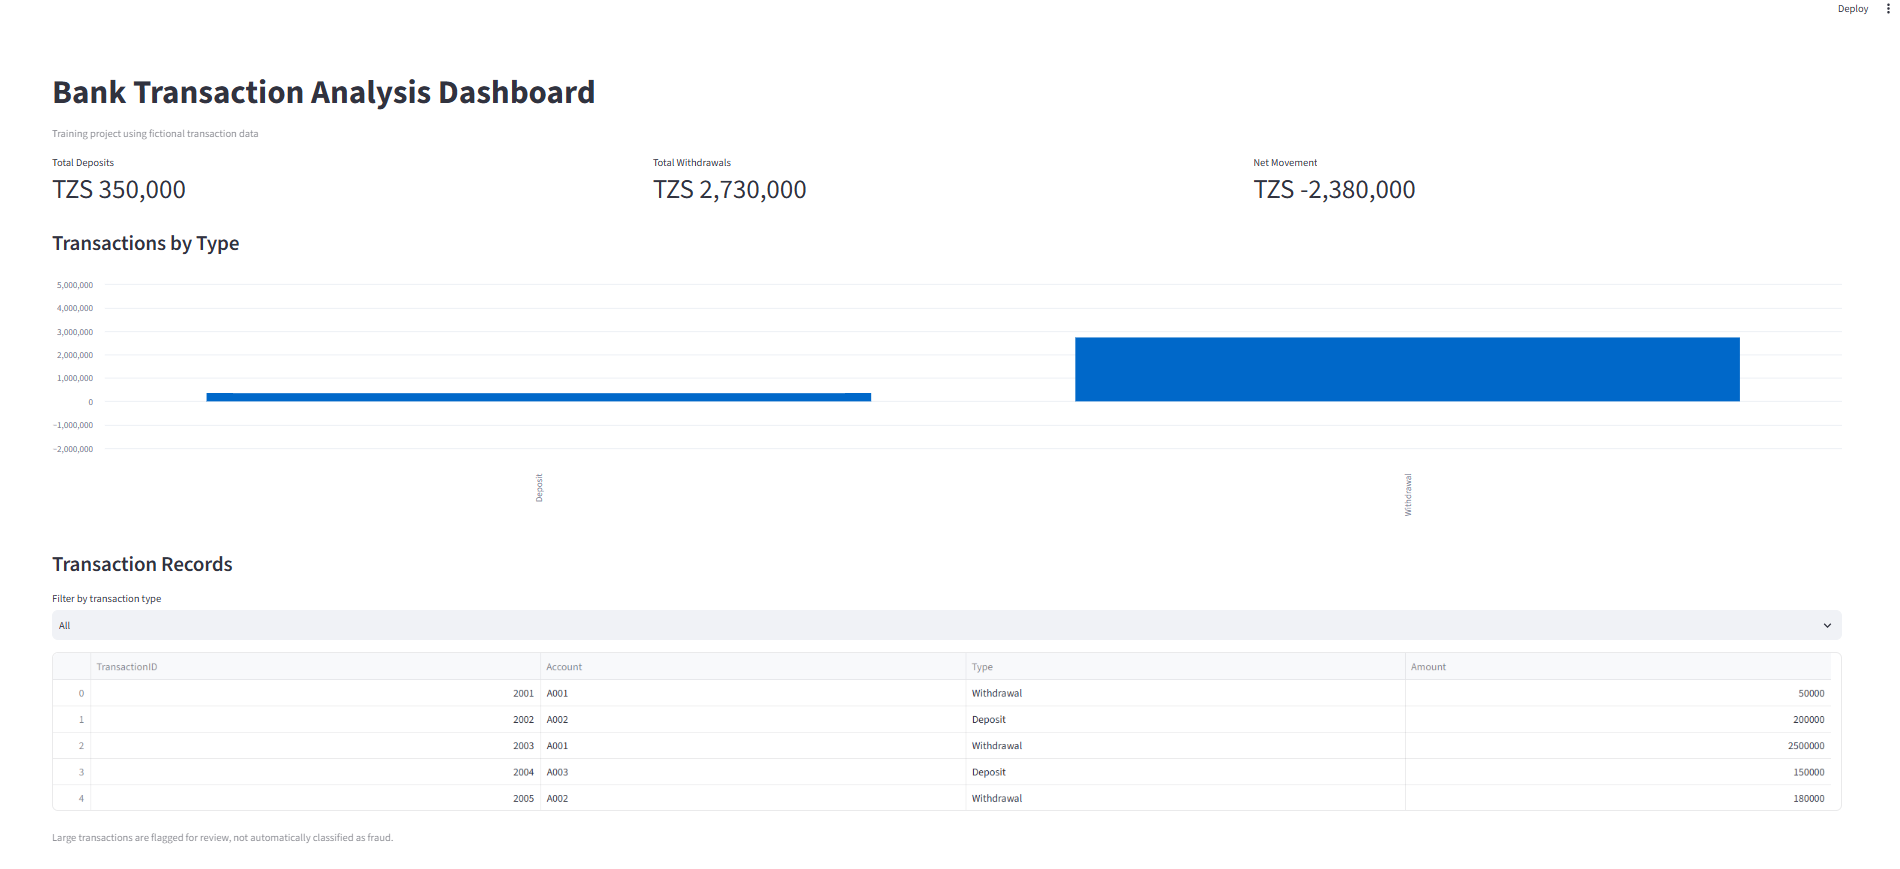
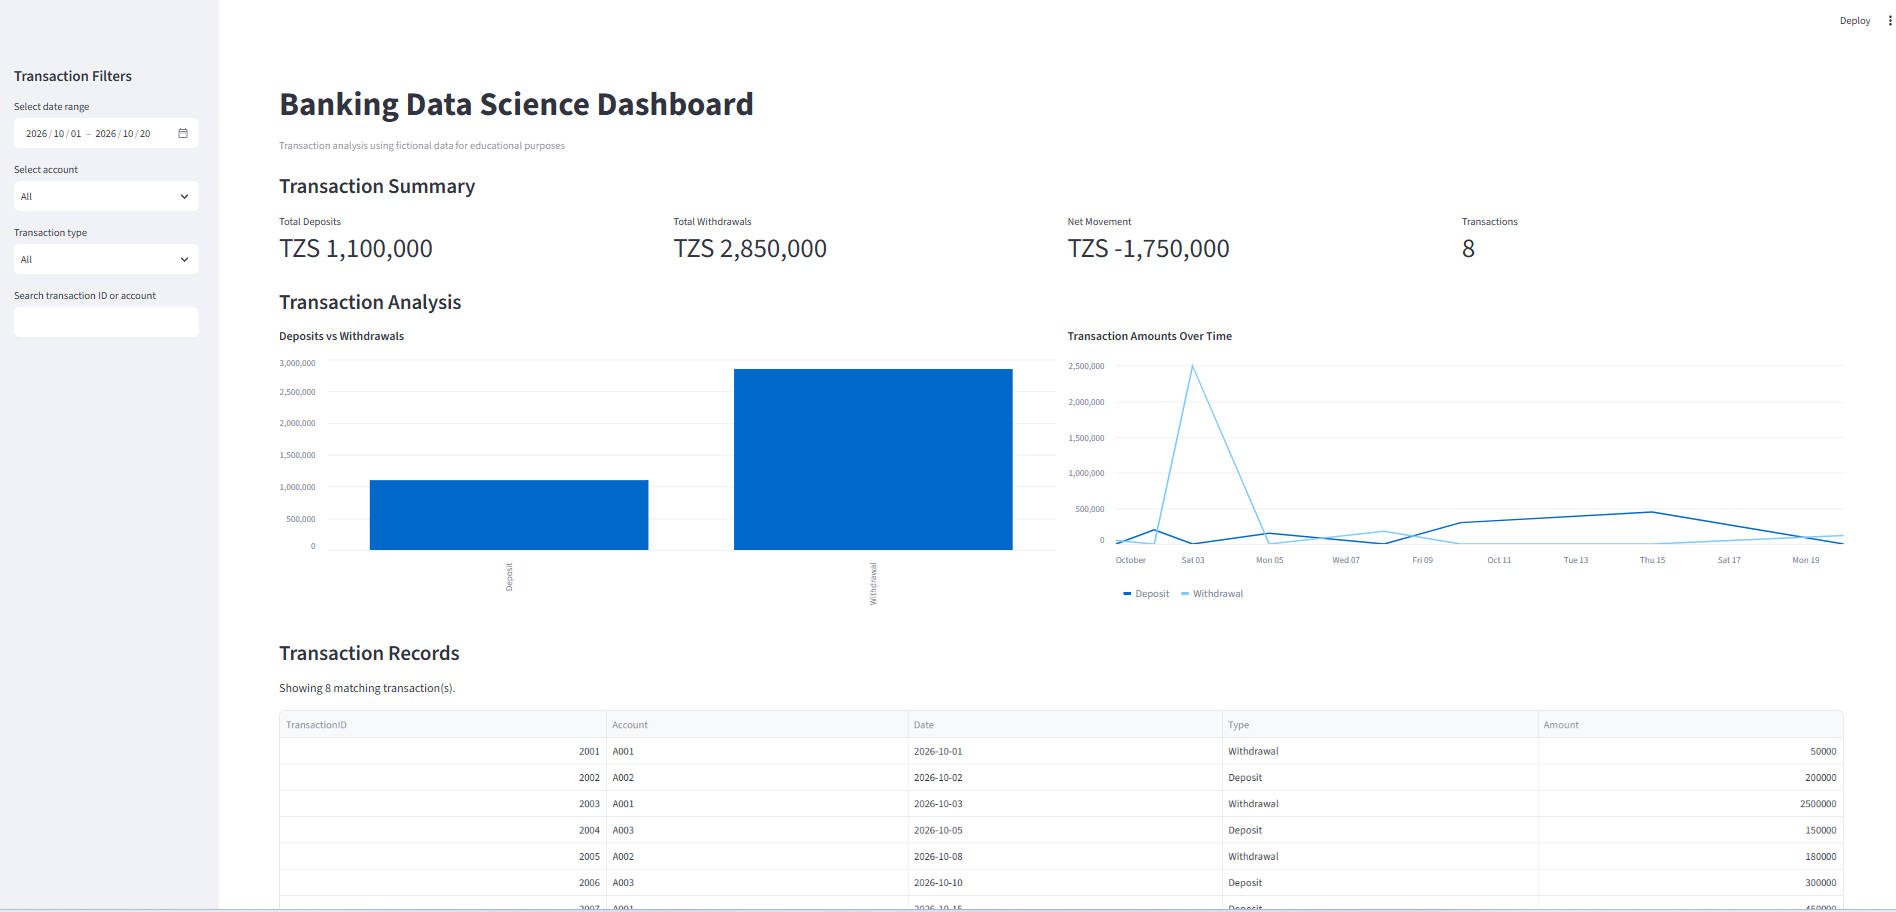
Connect banking dashboard to SQLite

diff --git a/src/bank_dashboard.py b/src/bank_dashboard.py
@@ -1,4 +1,7 @@
 
+import sqlite3
+from pathlib import Path
+
 import pandas as pd
 import streamlit as st
 
@@ -8,44 +11,40 @@ st.set_page_config(
     layout="wide"
 )
 
-# ----------------------------------
-# 1. Dashboard heading
-# ----------------------------------
+# Database location: project root folder
+DATABASE = Path(__file__).resolve().parent.parent / "banking_data.db"
+
 st.title("Banking Data Science Dashboard")
-st.caption(
-    "Transaction analysis using fictional data for educational purposes"
-)
+st.caption("SQL-powered analytics using fictional banking transactions")
 
 # ----------------------------------
-# 2. Fictional sample transactions
+# 1. Load records from SQLite
 # ----------------------------------
-data = {
-    "TransactionID": [2001, 2002, 2003, 2004, 2005, 2006, 2007, 2008],
-    "Account": [
-        "A001", "A002", "A001", "A003",
-        "A002", "A003", "A001", "A002"
-    ],
-    "Date": [
-        "2026-10-01", "2026-10-02",
-        "2026-10-03", "2026-10-05",
-        "2026-10-08", "2026-10-10",
-        "2026-10-15", "2026-10-20"
-    ],
-    "Type": [
-        "Withdrawal", "Deposit", "Withdrawal", "Deposit",
-        "Withdrawal", "Deposit", "Deposit", "Withdrawal"
-    ],
-    "Amount": [
-        50000, 200000, 2500000, 150000,
-        180000, 300000, 450000, 120000
-    ]
-}
+try:
+    with sqlite3.connect(DATABASE) as connection:
+        df = pd.read_sql_query("""
+            SELECT
+                transaction_id AS TransactionID,
+                account AS Account,
+                transaction_date AS Date,
+                transaction_type AS Type,
+                amount AS Amount
+            FROM transactions
+            ORDER BY transaction_date, transaction_id
+        """, connection)
+except sqlite3.Error as error:
+    st.error(f"Could not load the database: {error}")
+    st.stop()
 
-df = pd.DataFrame(data)
+if df.empty:
+    st.warning("The database contains no transactions.")
+    st.stop()
+
 df["Date"] = pd.to_datetime(df["Date"])
+df["Amount"] = pd.to_numeric(df["Amount"])
 
 # ----------------------------------
-# 3. Sidebar filters
+# 2. Sidebar filters
 # ----------------------------------
 st.sidebar.header("Transaction Filters")
 
@@ -53,7 +52,7 @@ min_date = df["Date"].min().date()
 max_date = df["Date"].max().date()
 
 date_range = st.sidebar.date_input(
-    "Select date range",
+    "Date range",
     value=(min_date, max_date),
     min_value=min_date,
     max_value=max_date
@@ -62,15 +61,13 @@ date_range = st.sidebar.date_input(
 accounts = ["All"] + sorted(df["Account"].unique().tolist())
 
 selected_account = st.sidebar.selectbox(
-    "Select account",
+    "Account",
     accounts
 )
 
-transaction_types = ["All", "Deposit", "Withdrawal"]
-
 selected_type = st.sidebar.selectbox(
     "Transaction type",
-    transaction_types
+    ["All", "Deposit", "Withdrawal"]
 )
 
 search_term = st.sidebar.text_input(
@@ -78,21 +75,25 @@ search_term = st.sidebar.text_input(
 )
 
 # ----------------------------------
-# 4. Apply filters
+# 3. Filter database results
 # ----------------------------------
 filtered_df = df.copy()
 
-if len(date_range) == 2:
-    start_date, end_date = date_range
-
+if isinstance(date_range, (tuple, list)):
+    if len(date_range) == 2:
+        start_date, end_date = date_range
+        filtered_df = filtered_df[
+            (filtered_df["Date"].dt.date >= start_date)
+            & (filtered_df["Date"].dt.date <= end_date)
+        ]
+    elif len(date_range) == 1:
+        selected_date = date_range[0]
+        filtered_df = filtered_df[
+            filtered_df["Date"].dt.date == selected_date
+        ]
+else:
     filtered_df = filtered_df[
-        (filtered_df["Date"].dt.date >= start_date)
-        & (filtered_df["Date"].dt.date <= end_date)
-    ]
-elif len(date_range) == 1:
-    selected_date = date_range[0]
-    filtered_df = filtered_df[
-        filtered_df["Date"].dt.date == selected_date
+        filtered_df["Date"].dt.date == date_range
     ]
 
 if selected_account != "All":
@@ -108,17 +109,19 @@ if selected_type != "All":
 if search_term.strip():
     search = search_term.strip().lower()
 
-    filtered_df = filtered_df[
+    matches = (
         filtered_df["TransactionID"].astype(str).str.lower().str.contains(
             search, na=False
         )
         | filtered_df["Account"].str.lower().str.contains(
             search, na=False
         )
-    ]
+    )
+
+    filtered_df = filtered_df[matches]
 
 # ----------------------------------
-# 5. Calculate KPIs
+# 4. Calculate summary metrics
 # ----------------------------------
 deposits = filtered_df.loc[
     filtered_df["Type"] == "Deposit", "Amount"
@@ -129,39 +132,23 @@ withdrawals = filtered_df.loc[
 ].sum()
 
 net_movement = deposits - withdrawals
-transaction_count = len(filtered_df)
 
 st.subheader("Transaction Summary")
 
 col1, col2, col3, col4 = st.columns(4)
 
-col1.metric(
-    "Total Deposits",
-    f"TZS {deposits:,.0f}"
-)
-
-col2.metric(
-    "Total Withdrawals",
-    f"TZS {withdrawals:,.0f}"
-)
-
-col3.metric(
-    "Net Movement",
-    f"TZS {net_movement:,.0f}"
-)
-
-col4.metric(
-    "Transactions",
-    f"{transaction_count:,}"
-)
+col1.metric("Total Deposits", f"TZS {deposits:,.0f}")
+col2.metric("Total Withdrawals", f"TZS {withdrawals:,.0f}")
+col3.metric("Net Movement", f"TZS {net_movement:,.0f}")
+col4.metric("Transactions", f"{len(filtered_df):,}")
 
 # ----------------------------------
-# 6. Charts
+# 5. Interactive charts
 # ----------------------------------
 st.subheader("Transaction Analysis")
 
 if filtered_df.empty:
-    st.warning("No transactions match your selected filters.")
+    st.info("No transactions match your filters.")
 else:
     chart_col1, chart_col2 = st.columns(2)
 
@@ -189,11 +176,10 @@ else:
         st.line_chart(daily_summary)
 
 # ----------------------------------
-# 7. Transaction records
+# 6. Transaction table
 # ----------------------------------
 st.subheader("Transaction Records")
-
-st.write(f"Showing {len(filtered_df)} matching transaction(s).")
+st.write(f"Matching transactions: {len(filtered_df)}")
 
 display_df = filtered_df.copy()
 display_df["Date"] = display_df["Date"].dt.strftime("%Y-%m-%d")
@@ -205,22 +191,19 @@ st.dataframe(
 )
 
 # ----------------------------------
-# 8. Download filtered records
+# 7. Download filtered CSV
 # ----------------------------------
 csv_data = filtered_df.to_csv(index=False).encode("utf-8")
 
 st.download_button(
-    label="Download filtered transactions (CSV)",
+    "Download filtered transactions (CSV)",
     data=csv_data,
     file_name="banking_transactions_report.csv",
     mime="text/csv"
 )
 
-# ----------------------------------
-# 9. Review notice
-# ----------------------------------
 st.info(
-    "Educational demonstration only. Large transactions may warrant "
-    "review, but transaction amount alone does not establish fraud. "
-    "All data in this dashboard is fictional."
+    "Training project using fictional data. A large transaction is not "
+    "automatically fraudulent. This dashboard is not validated for real "
+    "banking decisions."
 )

diff --git a/src/query_database.py b/src/query_database.py
@@ -1,0 +1,47 @@
+
+import sqlite3
+import pandas as pd
+
+DATABASE = "banking_data.db"
+
+with sqlite3.connect(DATABASE) as connection:
+
+    # Query 1: Display all transactions
+    print("\nALL TRANSACTIONS")
+
+    all_transactions = pd.read_sql_query(
+        "SELECT * FROM transactions",
+        connection
+    )
+    print(all_transactions.to_string(index=False))
+
+    # Query 2: Calculate deposits and withdrawals
+    print("\nTOTAL AMOUNT BY TRANSACTION TYPE")
+
+    summary = pd.read_sql_query("""
+        SELECT
+            transaction_type,
+            COUNT(*) AS transaction_count,
+            SUM(amount) AS total_amount
+        FROM transactions
+        GROUP BY transaction_type
+    """, connection)
+
+    print(summary.to_string(index=False))
+
+    # Query 3: Find withdrawals of at least TZS 200,000
+    print("\nWITHDRAWALS OF TZS 200,000 OR MORE")
+
+    large_withdrawals = pd.read_sql_query("""
+        SELECT
+            transaction_id,
+            account,
+            transaction_date,
+            amount
+        FROM transactions
+        WHERE transaction_type = 'Withdrawal'
+          AND amount >= 200000
+        ORDER BY amount DESC
+    """, connection)
+
+    print(large_withdrawals.to_string(index=False))

diff --git a/src/create_database.py b/src/create_database.py
@@ -1,0 +1,36 @@
+
+import sqlite3
+
+DATABASE = "banking_data.db"
+
+transactions = [
+    (2001, "A001", "2026-10-01", "Withdrawal", 50000),
+    (2002, "A002", "2026-10-02", "Deposit", 200000),
+    (2003, "A001", "2026-10-03", "Withdrawal", 2500000),
+    (2004, "A003", "2026-10-05", "Deposit", 150000),
+    (2005, "A002", "2026-10-08", "Withdrawal", 180000),
+    (2006, "A003", "2026-10-10", "Deposit", 300000),
+    (2007, "A001", "2026-10-15", "Deposit", 450000),
+    (2008, "A002", "2026-10-20", "Withdrawal", 120000),
+]
+
+with sqlite3.connect(DATABASE) as connection:
+    connection.execute("""
+        CREATE TABLE IF NOT EXISTS transactions (
+            transaction_id INTEGER PRIMARY KEY,
+            account TEXT NOT NULL,
+            transaction_date TEXT NOT NULL,
+            transaction_type TEXT NOT NULL,
+            amount REAL NOT NULL CHECK (amount >= 0)
+        )
+    """)
+
+    connection.executemany("""
+        INSERT OR IGNORE INTO transactions
+        (transaction_id, account, transaction_date,
+         transaction_type, amount)
+        VALUES (?, ?, ?, ?, ?)
+    """, transactions)
+
+print(f"Database created: {DATABASE}")
+print(f"Sample transactions processed: {len(transactions)}")
